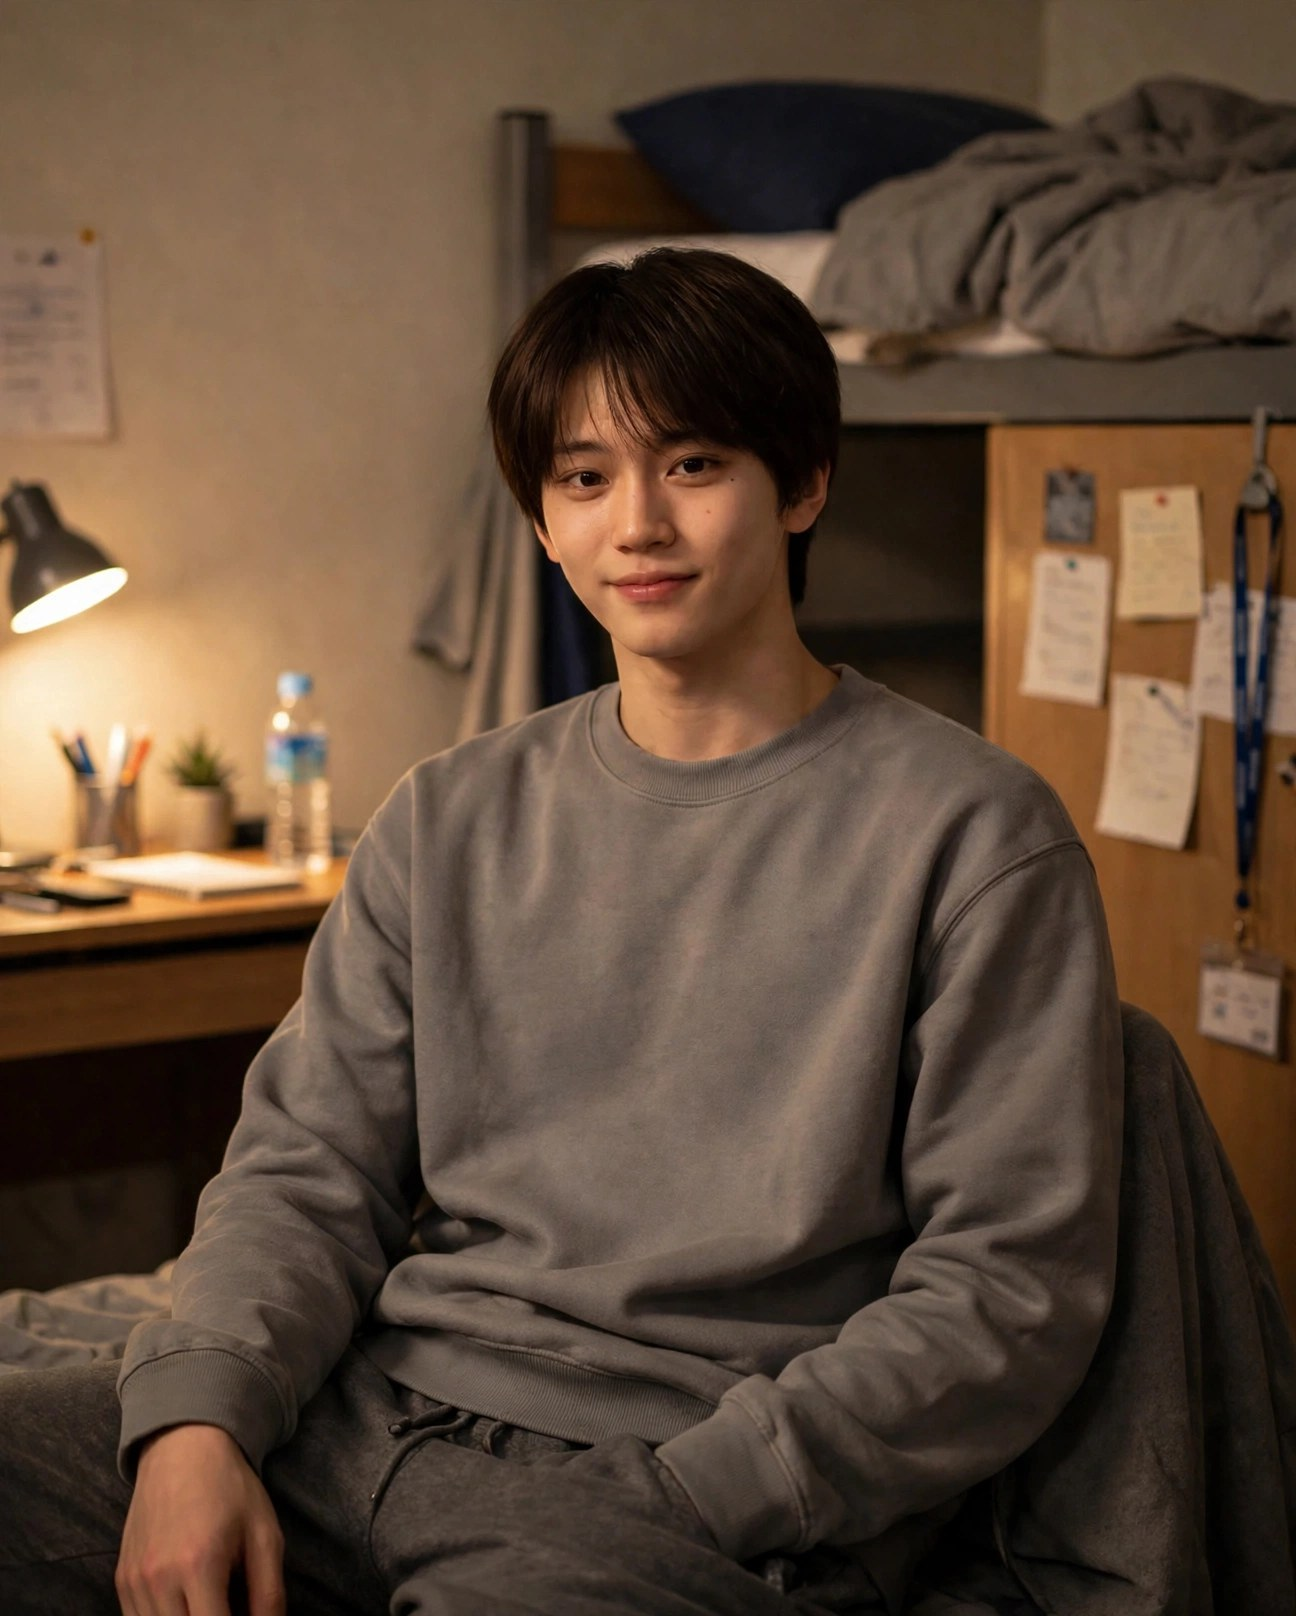
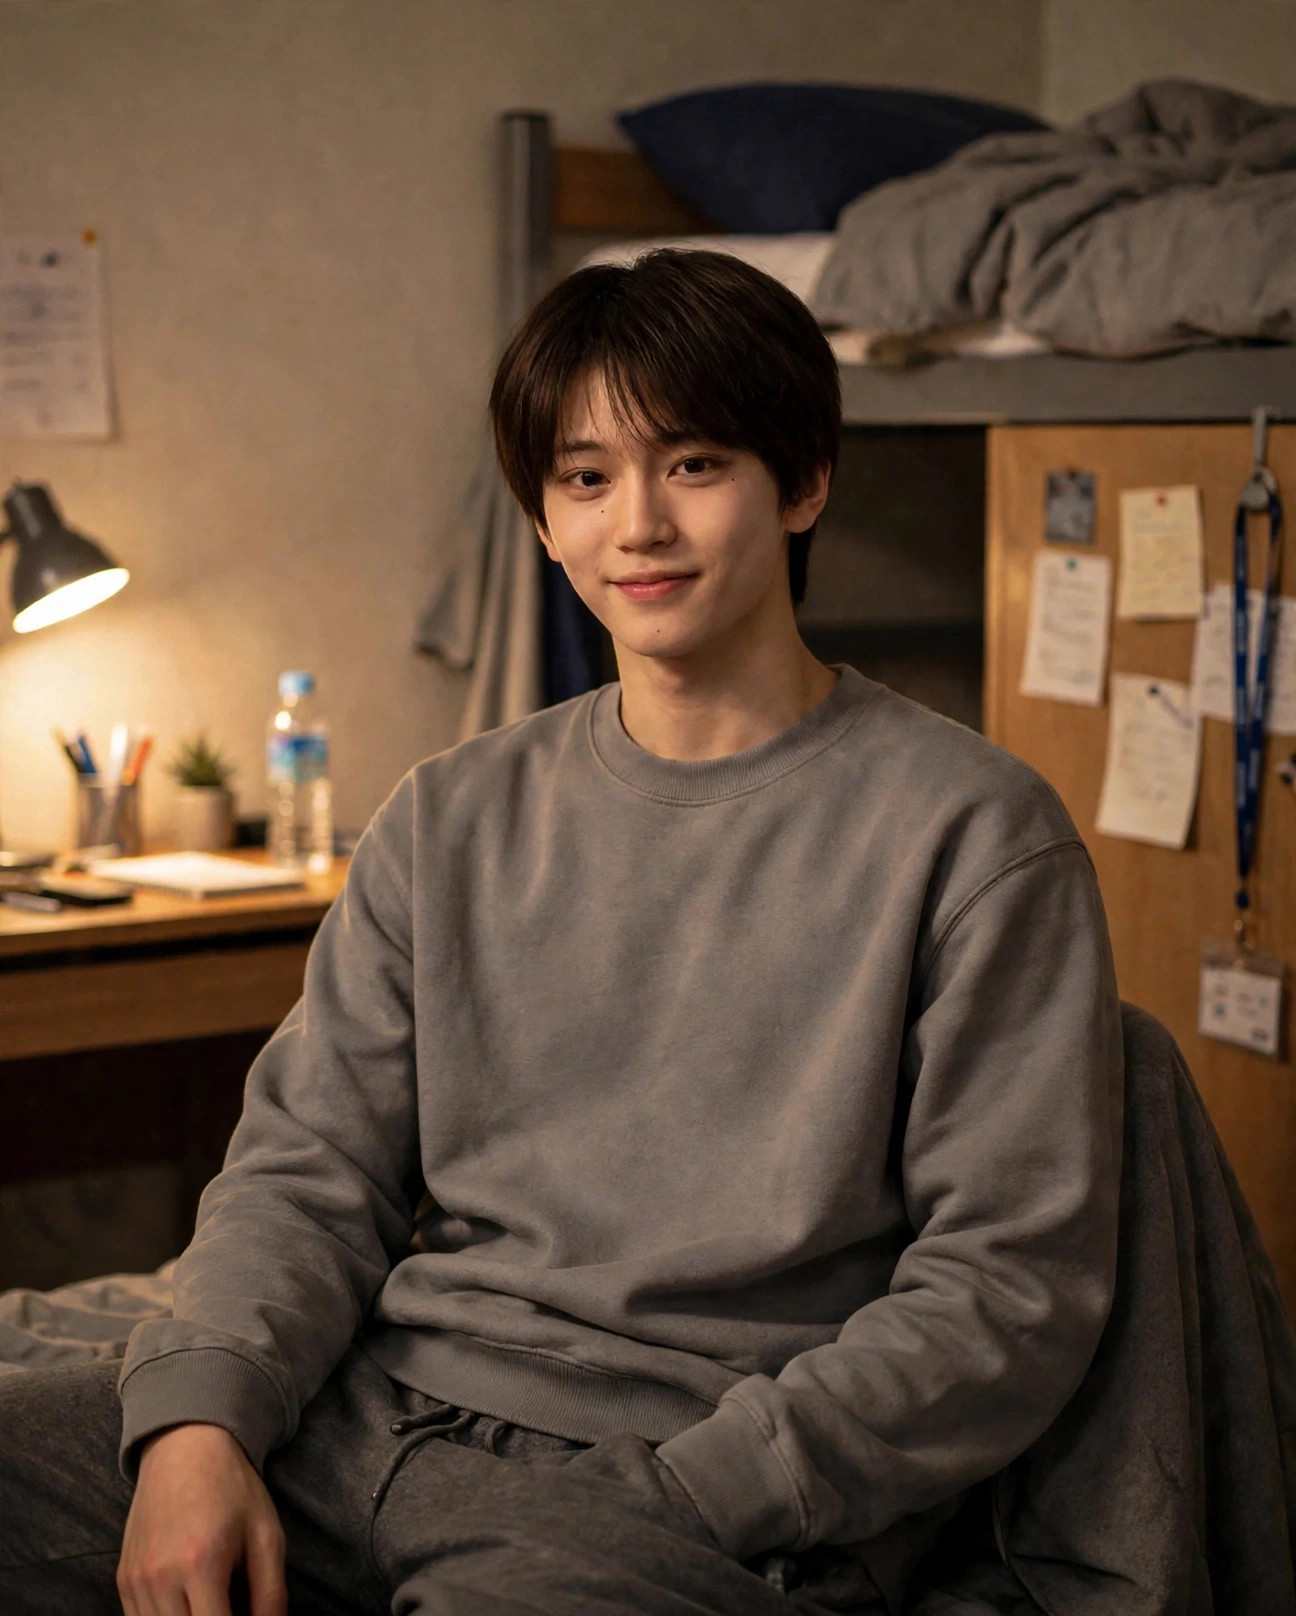
v57: 2019場面カット4点(宿舎/練習/順位発表/自撮り)を新フェイス(face2)で再生成

diff --git a/index.html b/index.html
@@ -518,7 +518,7 @@ body{font-family:-apple-system,"Hiragino Kaku Gothic ProN","Noto Sans JP",sans-s
 <script>
 "use strict";
 const $=s=>document.querySelector(s);
-const VER="v56";
+const VER="v57";
 /* ============ state ============ */
 const DEF={idx:0,started:false,consented:false,soundOn:true,
  g:{iwakan:0,bare:0,todoita:0,uta:8,dance:4,ishi:50},
